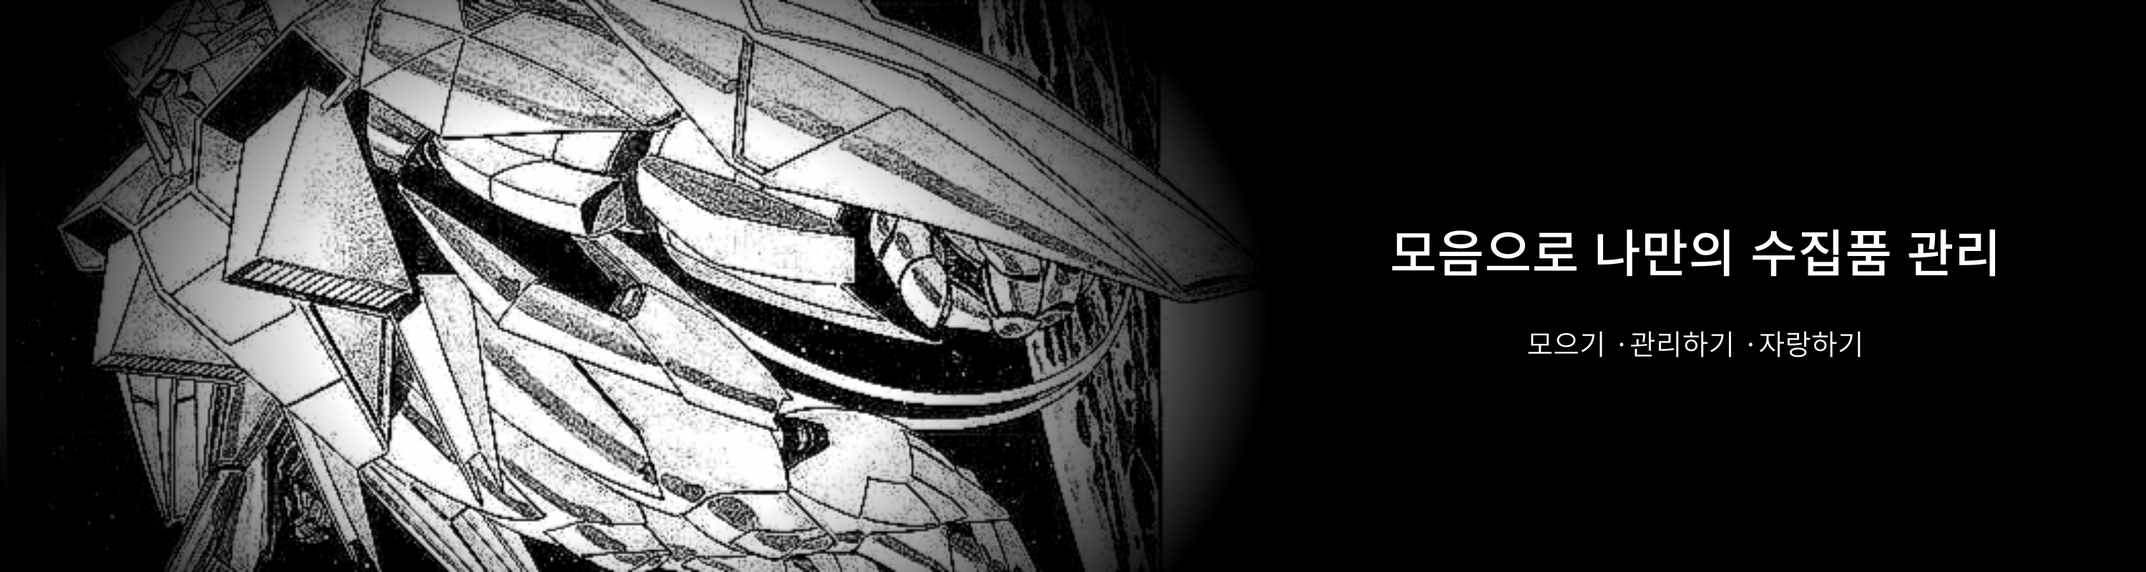
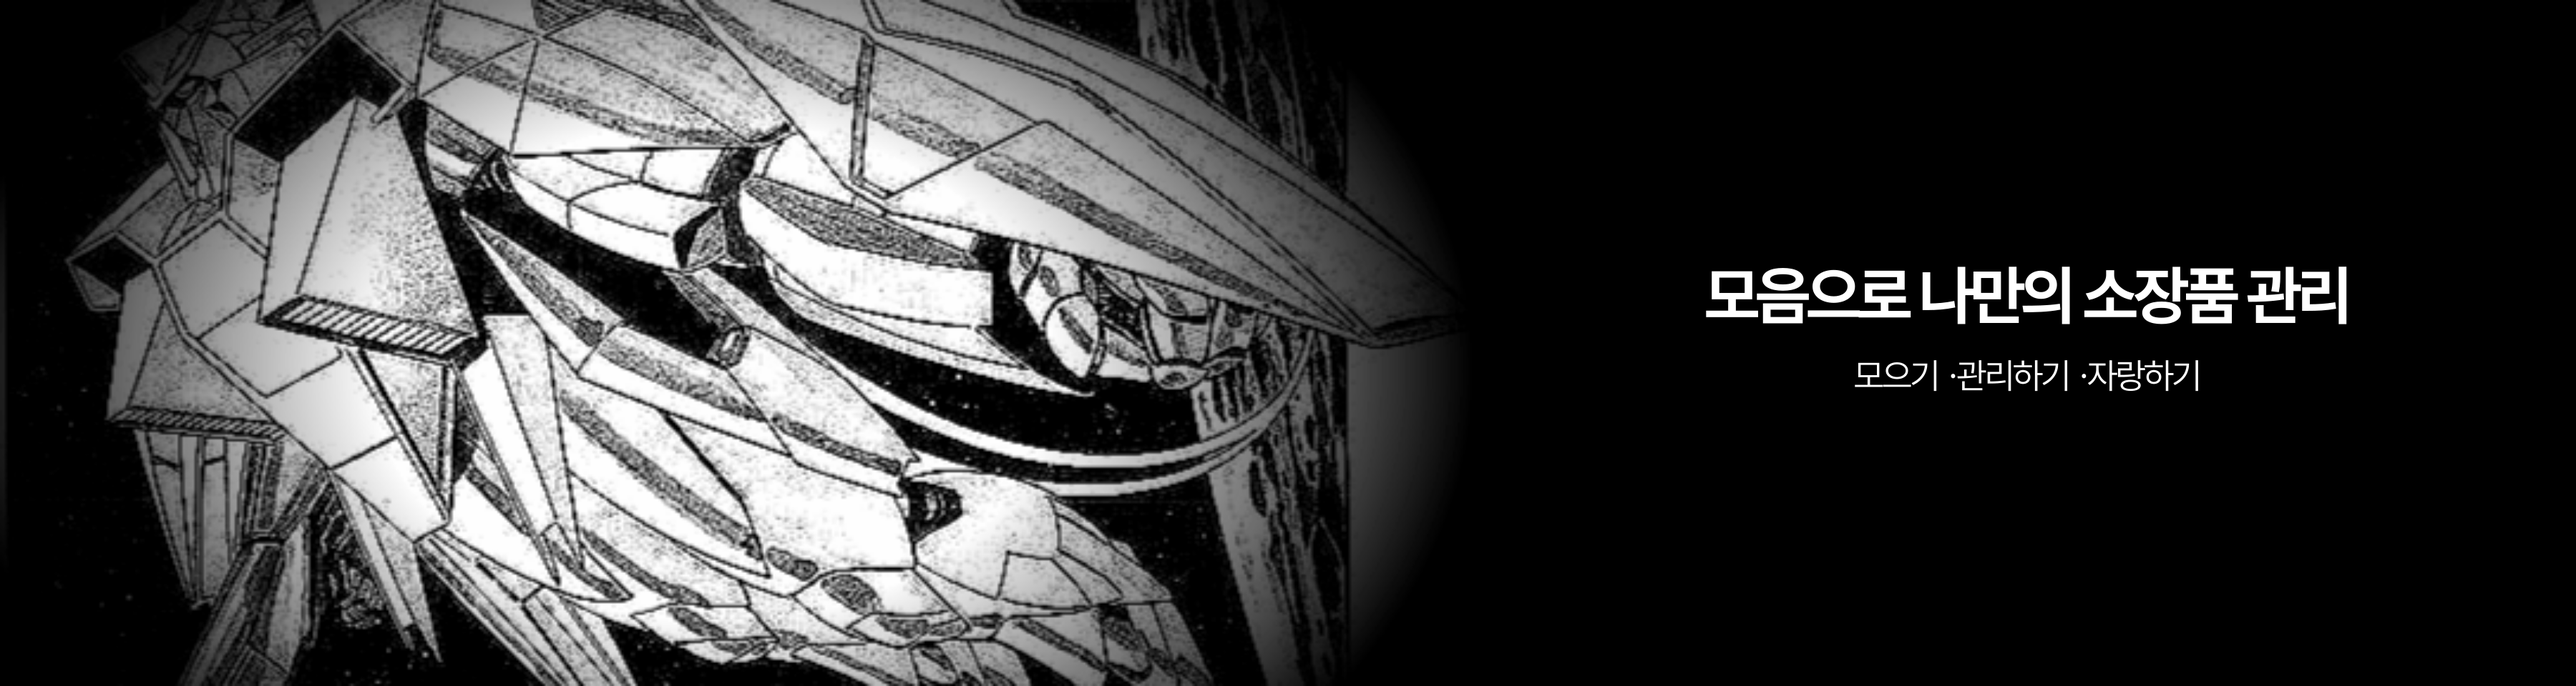
이미지 슬라이드 이미지 삽입

Changed region(s): [[0.031, 0.0, 0.589, 1.0], [0.651, 0.375, 0.93, 0.5], [0.713, 0.5312, 0.868, 0.625]]

diff --git a/src/main/resources/templates/home.html b/src/main/resources/templates/home.html
@@ -20,6 +20,7 @@
                 <button type="button" data-bs-target="#carouselExampleIndicators" data-bs-slide-to="0" class="active" aria-current="true" aria-label="Slide 1"></button>
                 <button type="button" data-bs-target="#carouselExampleIndicators" data-bs-slide-to="1" aria-label="Slide 2"></button>
                 <button type="button" data-bs-target="#carouselExampleIndicators" data-bs-slide-to="2" aria-label="Slide 3"></button>
+                <button type="button" data-bs-target="#carouselExampleIndicators" data-bs-slide-to="3" aria-label="Slide 4"></button>
             </div>
             <div class="carousel-inner">
                 <div class="carousel-item active">
@@ -29,7 +30,10 @@
                     <img src="/images/main/banner-image-2.png" class="d-block w-100" alt="...">
                 </div>
                 <div class="carousel-item">
-                    <img src="/images/main/banner-image-1.png" class="d-block w-100" alt="...">
+                    <img src="/images/main/banner-image-3.png" class="d-block w-100" alt="...">
+                </div>
+                <div class="carousel-item">
+                    <img src="/images/main/banner-image-4.png" class="d-block w-100" alt="...">
                 </div>
             </div>
             <button class="carousel-control-prev" type="button" data-bs-target="#carouselExampleIndicators" data-bs-slide="prev">
